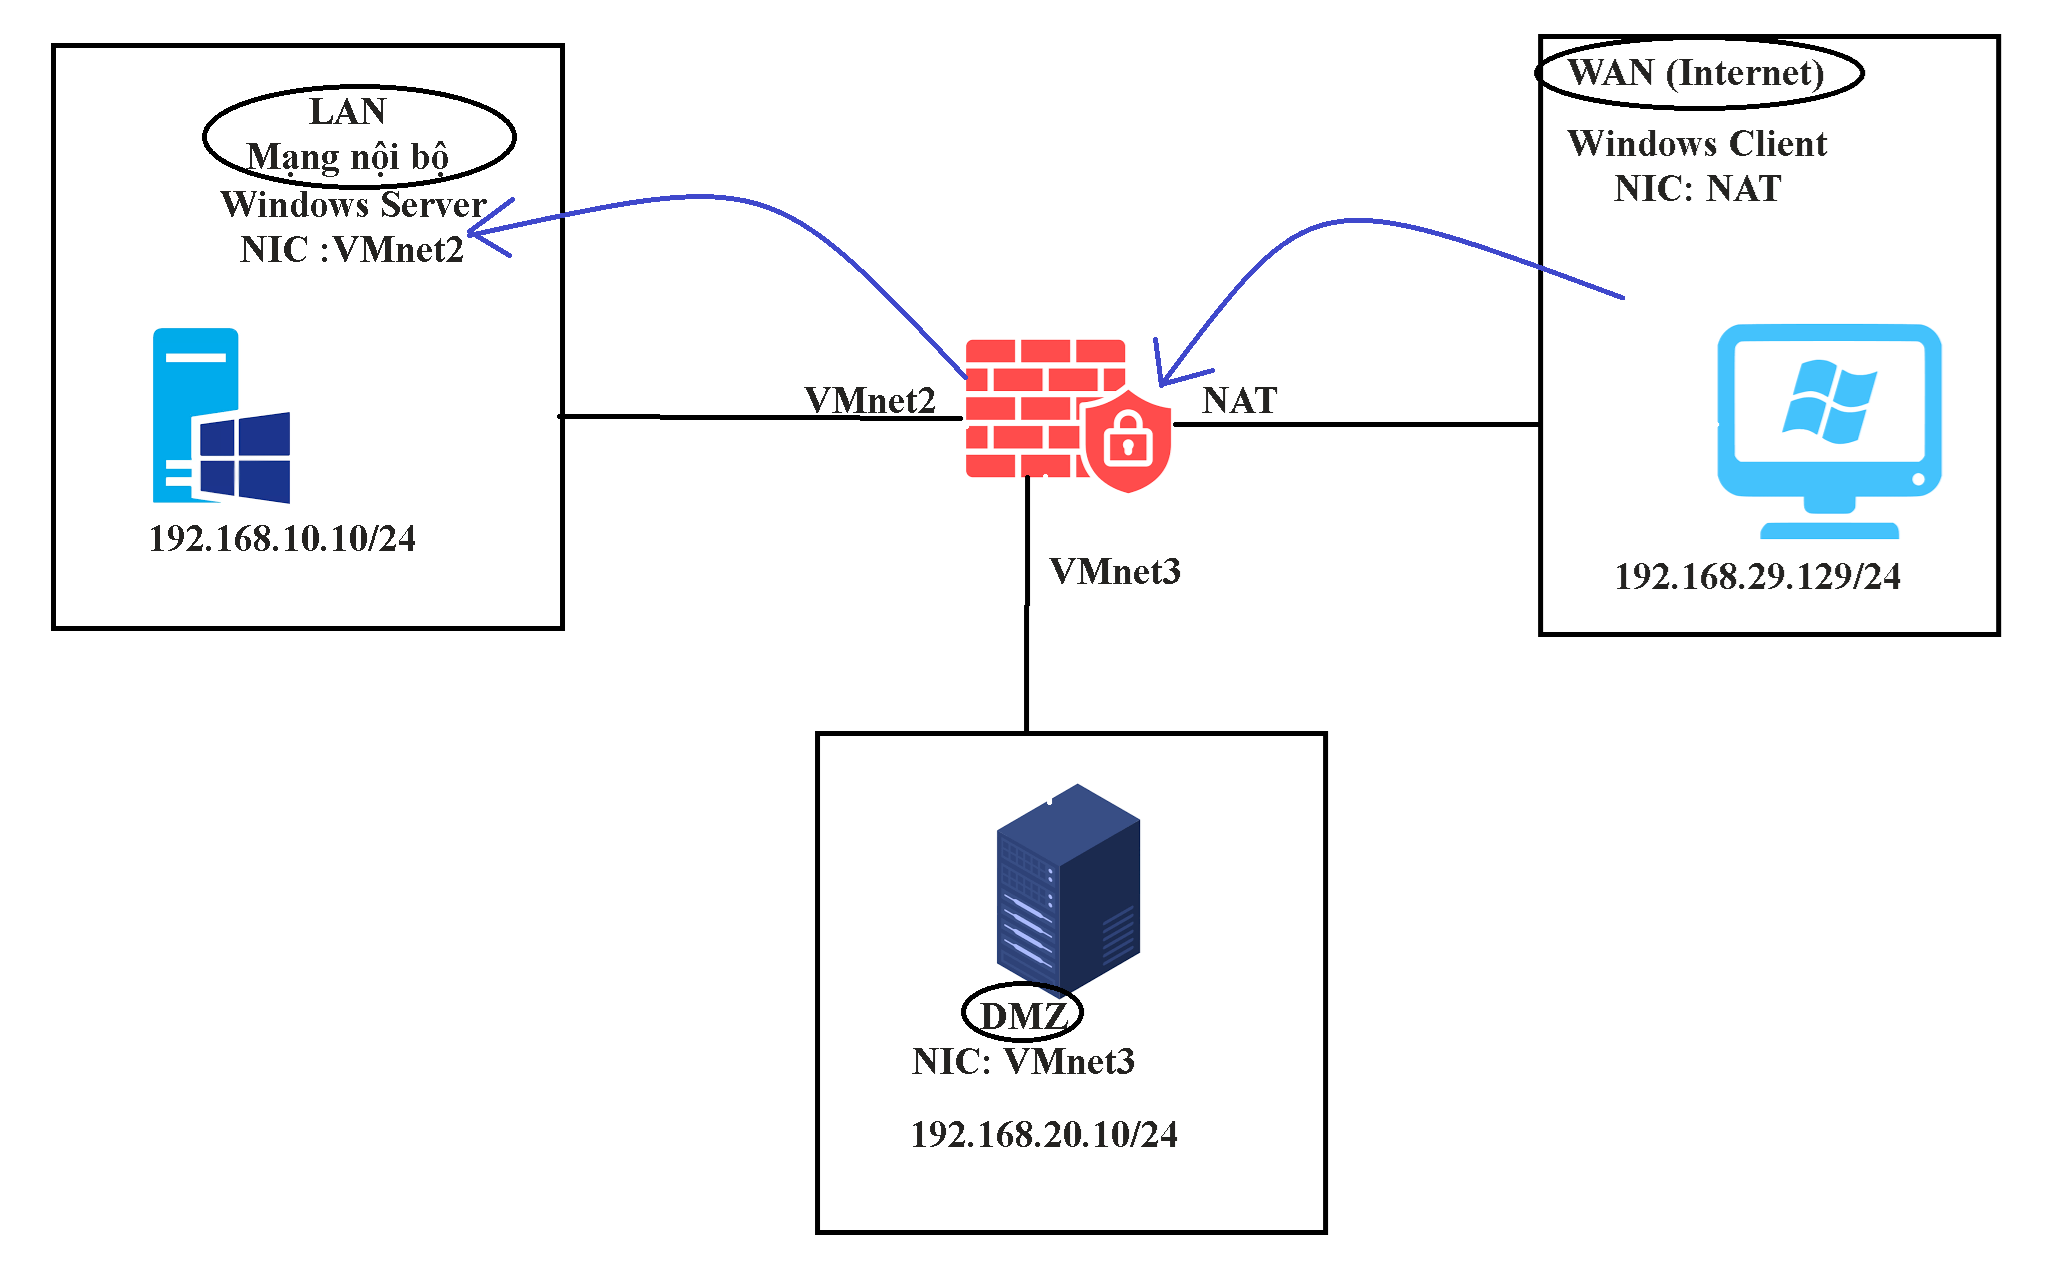
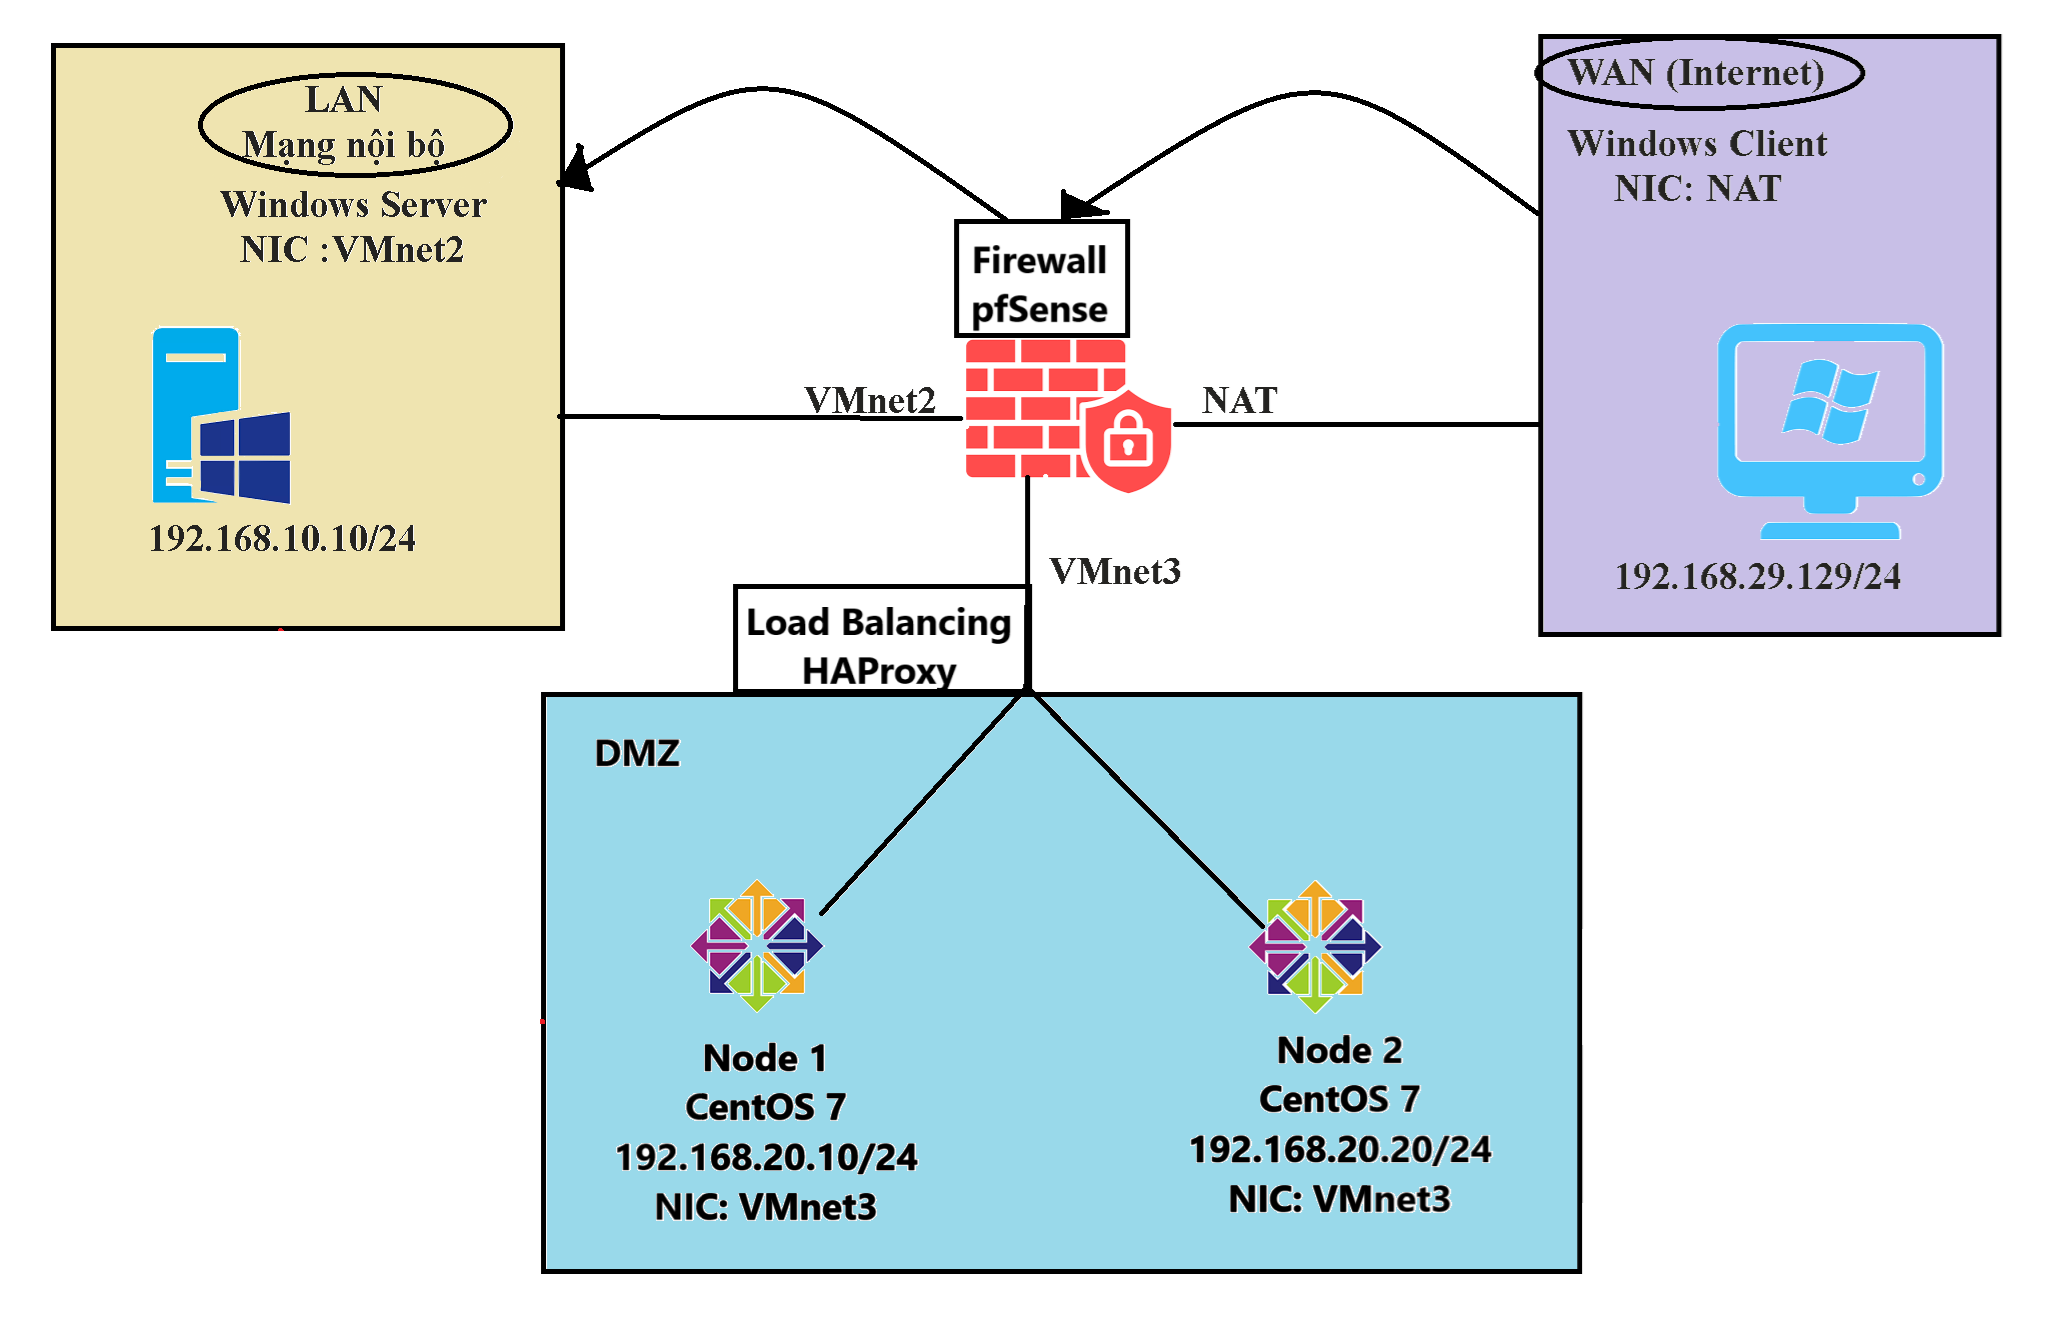
update Readme.md

diff --git a/README.md b/README.md
@@ -1,11 +1,11 @@
 # Tìm hiểu Firewall, IDS/IPS trên VMWare
 #  I. Tổng quan đề tài
 ## 1. Giới thiệu mô hình
-Đề tài thực hiện việc tìm hiểu cách cài đặt, triển khai Firewall bằng pfSense, cách đặt luật, cài đặt DMZ cũng như kết hợp hệ thống cảnh báo phát hiện xâm nhập IDS/IPS trên nền tảng ảo hóa VMWare. Đề tài được xây dựng theo mô hình bao gồm:
+Đề tài thực hiện việc tìm hiểu cách cài đặt, triển khai Firewall bằng pfSense, cách đặt luật, cài đặt DMZ sử dụng Load Balancing HAProxy cũng như kết hợp hệ thống cảnh báo phát hiện xâm nhập IDS/IPS trên nền tảng ảo hóa VMWare. Đề tài được xây dựng theo mô hình bao gồm:
 * Firewall pfSense dùng 3 card mạng (NAT, VMnet2, VMnet3).
-* DMZ dùng dùng hệ điều hành Windows 10 với 1 card mạng (VMnet3).
+* DMZ dùng 2 máy ảo hệ điều hành CentOS 7 với 1 card mạng mỗi máy (VMnet3).
 * Web Server dùng Windows Server 2012 với một card mạng (VMnet2).
-* Máy Client dùng hệ điều hành Windows 10 với card mạng (NAT).
+* Máy Client dùng hệ điều hành Windows 10 với card mạng (NAT) có thể dùng máy vật lý để tối ưu không gian lưu trữ.
 
 ![Mô hình mạng](img/topology.png)
 
@@ -13,14 +13,15 @@ Tải và cài đặt file img pfSense tại `https://atxfiles.netgate.com/mirro
 
 ## 2. Công việc sẽ thực hiện
 Công việc sẽ thực hiện bao gồm:
-* Triển khai một Website cơ bản để demo cho chức năng của Web Server.
-* Triển khai DMZ.
-* Tiến hành Port Forward để NAT lớp mạng NAT vào lớp mạng LAN.
-* Tiến hành tìm hiểu các rule cơ bản trên firewall.
+* Triển khai một Website cơ bản để demo cho chức năng của Web Server để chứng tỏ rằng mô hình này Web Server có thể được dùng để triển khai làm server nội bộ hoặc để quản lý DMZ.
+* Tiến hành thử nghiệm chức năng Port Forward để NAT lớp mạng NAT vào lớp mạng LAN.
+* Tắt tính năng Port Forward, dựng 2 WebServer trên 2 máy ảo CentOS7.
+* Triển khai DMZ kết hợp Load Balancing bằng HAProxy với 2 node chạy CentOS 7 với chức năng chịu tải cho Website.
 * Cài đặt hệ thống IDS/IPS.
 * 
-# II. Tiến hành
-## 1. Triển khai Web Server Local
+# II. Tiến hành thực hiện
+## 1. Port Forwarding
+### a) Triển khai Web Server Local trên Windows Server
 * Trên Windows Server 2012 truy cập vào Server Manager, chọn **Manage** -> **Add roles and featuers**
 * Tiếp tục thực hiện các bước đến khi chọn gói cài đặt, ta chọn gói Web Server (ISS) để cài.
 ![Bước 1](img/b1.png)
@@ -37,8 +38,8 @@ Công việc sẽ thực hiện bao gồm:
  * Hoặc đơn giản hơn là dùng trình duyệt và truy cập `https://IP_SERVER:PORT` như ở lab đã cấu hình thì truy cập `https://192.168.10.10:8081` ta được kết quả tương tự như hình.
  ![Demo Website](img/b5.png)
 
-## 2. Tiến hành Port Forward để NAT lớp mạng NAT vào lớp mạng LAN.
-### a. Cấu hình
+### b) Tiến hành Port Forward để NAT lớp mạng NAT vào lớp mạng LAN.
+#### b.1 Cấu hình
  Truy cập vào **Firewall** -> **NAT** và tiến hành Add theo các cấu hình dưới:
 ```
     interface WAN
@@ -96,11 +97,106 @@ Bước tiếp theo ta truy cập vào **Firewall** -> **RULES** chọn card **W
 ```
 Sau khi cấu hình xong ở Rule sẽ như hình:
 ![Rule table](img/Rule1.png)
-### b. Kiểm tra cấu hình
+#### b.2 Kiểm tra cấu hình
 Sau khi cấu hình NAT port Forward rồi thì Client từ ngoài Internet dùng card mạng NAT có thể truy cập đến Website đặt trong mạng LAN như hình dưới IP `192.168.29.131` là IP card mạng NAT trên Firewall.
 ![test Port Forward](img/webNat.png)
-Vì chưa có DMZ nên Firewall sẽ redirect sang trực tiếp WebServer nội bộ.
+Vì chưa cấu hình DMZ nên Firewall sẽ redirect sang trực tiếp WebServer nội bộ.
 ![Chưa có DMZ](img/NATChuaCoDMZ.png)
-## 3. Triển khai DMZ
-## 4. Tiến hành tìm hiểu các rule cơ bản trên firewall.
-## 5. Cài đặt hệ thống IDS/IPS.
+
+✍ Như vậy mục này ta đã kiểm thử được cách truy cập từ mạng Internet (WAN) vào trong Web Server (LAN) bằng Port Forwading.
+
+## 3. Triển khai DMZ kết hợp Load Balancing
+### a. Cấu hình Web Server trên CentOS bằng Apache
+Vì CentOS 7 đã ngừng hỗ trợ nên việc update các package cũng như cài các dịch vụ mới sẽ gặp rắc rối. Bạn đọc có thể tham khảo cách dưới được tổng hợp theo nguồn Internet, phục vụ cho việc demo.
+
+[Cách cấu hình CentOS để update và cài đặt gói mới](https://github.com/tanduong9424/trick/blob/main/README.md)
+
+Sau khi update hoàn tất, tiến hành cài đặt apache theo câu lệnh ``yum install httpd -y``
+
+Thực hiện cấu hình lại file ``nano /etc/httpd/conf/httpd.conf``, thêm vào cuối file câu:
+```
+IncludeOptional conf.d/*.conf
+NameVirtualHost *:80
+```
+
+Tiếp theo ta tạo mới file example.conf để cấu hình ``nano /etc/httpd/conf.d/example.conf`` theo mẫu dưới:
+```
+<VirtualHost *:80>
+	ServerAdmin webmaster@htd.edu.vn
+	DocumentRoot /home/htd/Desktop/web/WebBanAoDaBanh/index
+	ServerName htd1.vn
+	ServerAlias fit.htd1vn
+	<Directory /home/htd/Desktop/web/WebBanAoDaBanh/index>
+	        Options Indexes FollowSymLinks
+	        AllowOverride All
+	        Require all granted
+	 </Directory>
+</VirtualHost>
+```
+**Chú ý:**
+* ServerAdmin là email, thông tin của chủ Website.
+* DocumentRoot là đường dẫn tới file **index.html** thường sẽ là ``www/root/html``
+* ServerName là tên miền (nếu có).
+* ServerAlias là Alias cho tên miền.
+
+Sau khi điều chỉnh hoàn tất ta tiến hành gán quyền cho và restart Apache.
+```
+sudo chown -R htd:htd /home/htd/Desktop/web/WebBanAoDaBanh
+sudo chmod -R 755 /home/htd/Desktop/web/WebBanAoDaBanh
+chmod +x /home/htd/Desktop/web/WebBanAoDaBanh/index/index.html
+
+chmod o+x /home
+chmod o+x /home/htd
+chmod o+x /home/htd/Desktop
+chmod o+x /home/htd/Desktop/web
+chmod o+x /home/htd/Desktop/web/WebBanAoDaBanh
+
+systemctl enable httpd
+systemctl start httpd
+systemctl restart httpd
+```
+### b. Cài đặt, cấu hình Load Balancing
+Truy cập vào giao diện quản lý pfSense, truy cập **System**->**Package Manager**->**Available Packages**-> Tìm kiếm gói **HAProxy** và cài đặt.
+
+Khi cài xong truy cập **Services**->**HAProxy** để tiến hành cấu hình.
+
+Ở phần **Settings** ta tích vào để bật HAPRoxy như hình và kéo xuống cuối cùng để **SAVE** :
+![bật HAProxy](img/EnableHAProxy.png)
+
+Bên tab **BackEnd**, ta tạo mới một Pool, đây sẽ là nơi chứ các node cho Load Balancing, như trong mô hình đã đề cập, ta tạo 2 node ``192.168.20.10:80`` và `` 192.168.20.20:80`` như hình dưới:
+
+![bật HAProxy](img/Backend1.png)
+
+Đồng thời ta có thể chọn thuật toán Load Balancing ở tab ``Loadbalancing options``, ở đây để đơn giản ta có thể chọn Round Robin.
+![thuật toán](img/thuattoanLB.png)
+
+Bên tab **FrontEnd**, ta tạo mới một Frontend, đây là nơi mà HAProxy có thể nhận luồng traffic rồi từ đó phân chia request về các node. Theo mô hình chúng ta đã đề cập thì Fontend ở đây là card mạng WAN trên Firewall.
+
+Cấu hình cụ thể:
+![FrontEnd](img/frontend1.png)
+
+Chú ý ở mục này ta sẽ chọn Pool đã tạo ở bước vừa tạo bên trên, còn lại các lựa chọn khác có thể để như mặc định.
+![FrontEnd](img/frontend2.png)
+
+### c. Cấu hình Rule để thiết lập DMZ
+Với mô hình đã đề cập, có thể hình dung các luồng traffic như sau:
+* Windows Server trong mạng LAN có thể dùng để chứa các dịch vụ nội bộ, cũng có thể dùng để quản lý DMZ nên, traffic đi từ LAN đến DMZ được pass.
+![Rule LAN](img/ruleLan.png)
+
+* DMZ dùng để chứa các dịch vụ công cộng, cho user từ internet truy cập và sử dụng, nên nếu DMZ có bị hacker tấn công thì luồng traffic không được đến trong lớp mạng LAN nên buộc phải block traffic từ DMZ đến LAN.
+
+* DMZ vẫn có thể truy cập ngược ra internet để có thể respond request của user khi sử dụng dịch vụ, nên traffic từ DMZ đến WAN được pass. Ở rule cho DMZ truy cập internet thì ``!LAN subnets`` nghĩa là đối tượng được áp dụng là toàn bộ lớp mạng **ngoại trừ** lớp mạng **LAN**
+![Rule DMZ](img/ruleDMZ.png)
+
+* Client từ mạng internet truy cập vào Website sẽ được điều hướng vào card mạng WAN, vào đến mạng WAN, HAProxy sẽ thực hiện điều tiết Load Balancing, chuyển request đến các node trong pool, việc điều tiết request HAProxy sẽ thực hiện, không cần cấu hình bằng rule, việc cần cấu hình là điều hướng request vào card mạng WAN.
+![Rule WAN](img/ruleWAN.png)
+
+### d. Kiểm tra kết quả
+Sau khi cài đặt xong ta sẽ tiến hành truy cập vào WebSite từ bên ngoài mạng WAN vào bằng cách truy cập vào IP card mạng WAN trên Firewall, trong mô hình này ta sẽ truy cập vào ``192.168.29.131:80``. 
+
+Đồng thời để phân biệt 2 node, ta sẽ để header website ở node 1 màu đỏ, header website node thứ 2 sẽ có màu xanh nước. Và kết quả ta được như dưới hình:
+![node1](img/webNode1.png)
+![node2](img/webNode2.png)
+
+✍Kết quả thử nghiệm cho thấy các Rule và Load balancing đã được cấu hình chính xác, đúng như kết quả mong đợi.
+## 4. Cài đặt hệ thống IDS/IPS.
